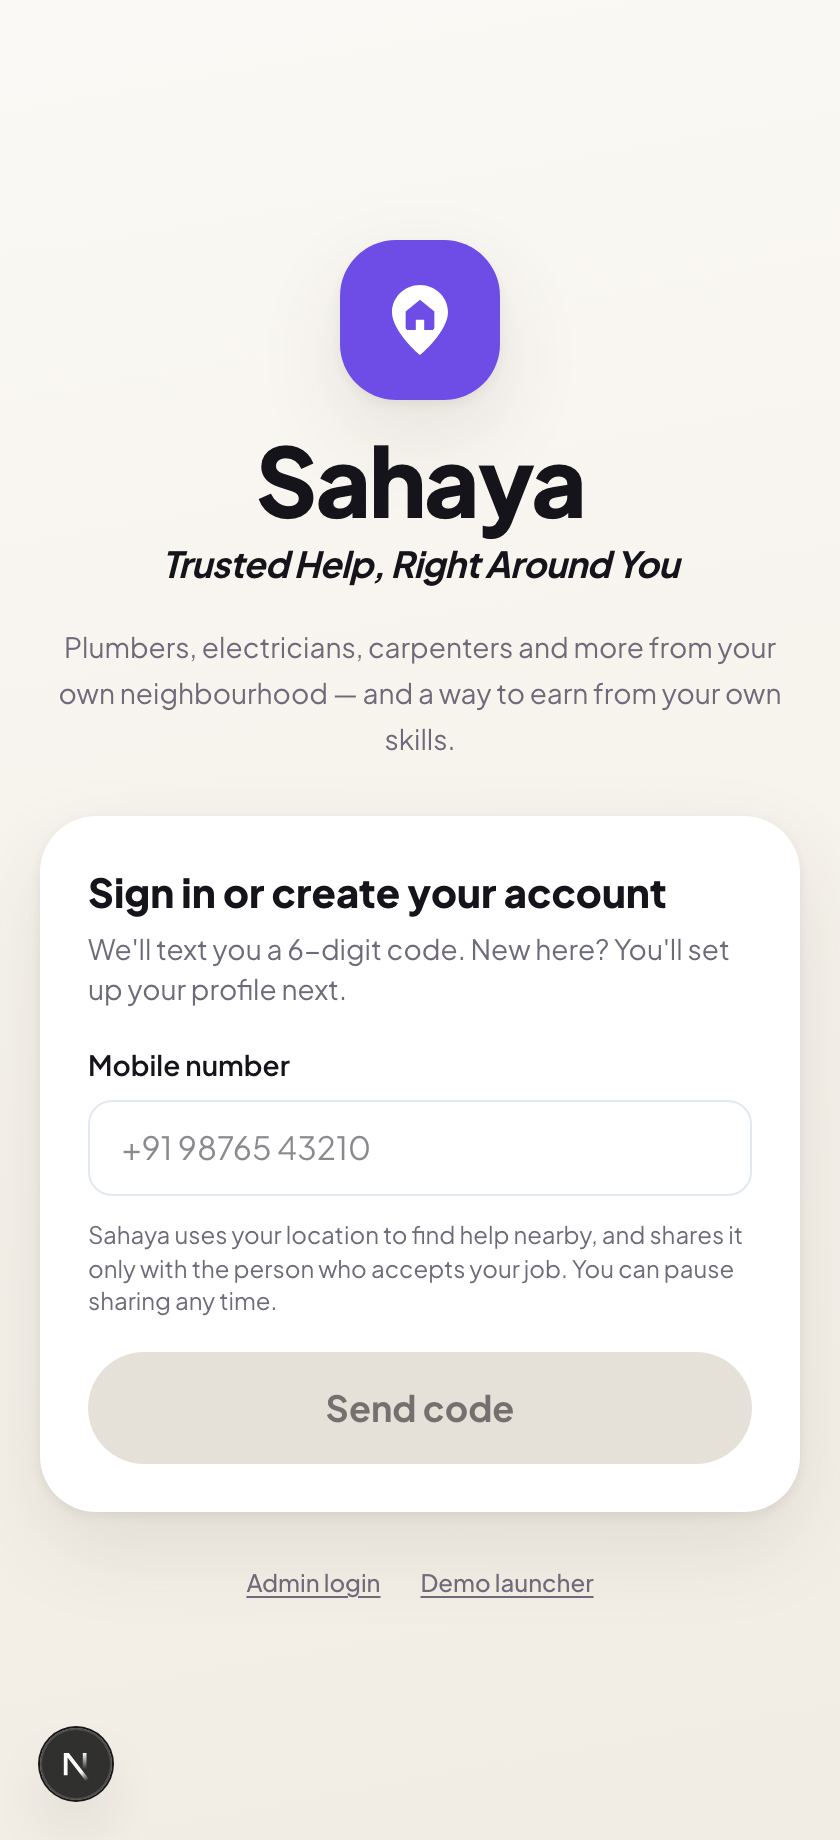
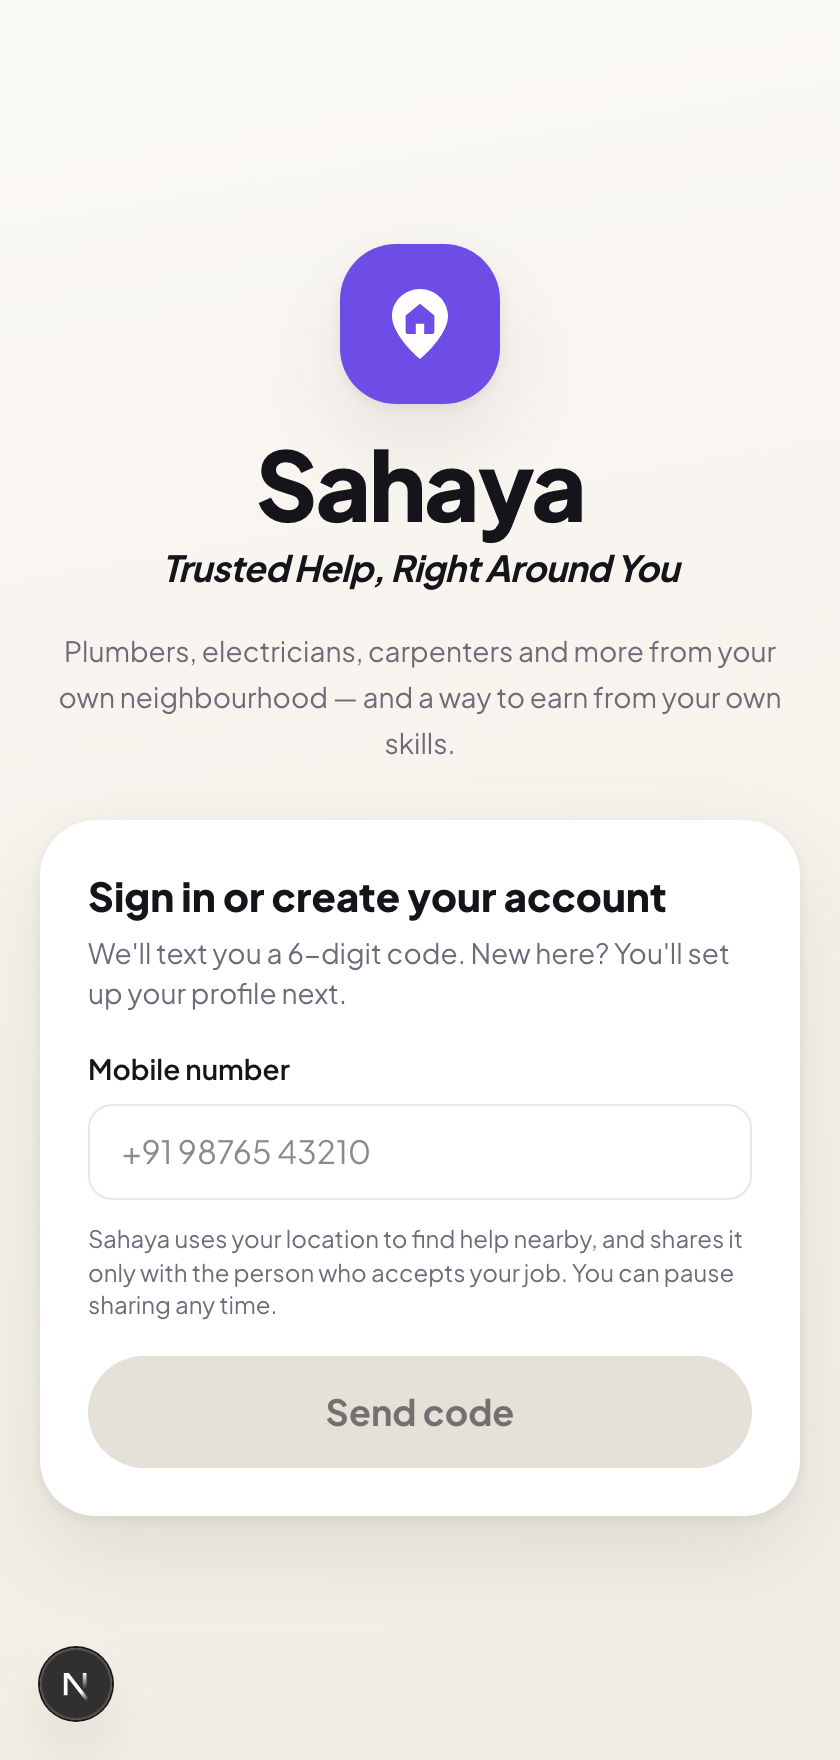
Take the operator doors off the sign-in screen
The admin console and the demo launcher were advertised at the bottom of the screen
a customer meets first. They are operator tools, not a door to offer someone who
came to book a plumber. Both routes still work by URL (/ops, /demo) — they just no
longer invite everyone in.

Changed region(s): [[0.031, 0.4688, 0.9595, 0.875], [0.0619, 0.125, 0.9286, 0.4375], [0.031, 0.9375, 0.1238, 0.9688]]

diff --git a/app/page.tsx b/app/page.tsx
@@ -9,7 +9,6 @@
  * The money lives in components/PaymentPanel.tsx on both sides; this file only routes between screens and, when a
  * provider closes a job, repeats back the figures the server computed for the charge.
  */
-import Link from "next/link";
 import { useCallback, useEffect, useRef, useState } from "react";
 import { Icon } from "@/components/icons";
 import { Badge, Container, Logo, NavBar, PhoneShell, PulsingDot, initials } from "@/components/ui";
@@ -108,10 +107,6 @@ function AuthScreen({ onDone }: { onDone: () => void }) {
           <h2 className="font-display text-xl font-extrabold text-ink">Sign in or create your account</h2>
           <p className="mb-4 mt-1 text-sm text-mist">We&apos;ll text you a 6-digit code. New here? You&apos;ll set up your profile next.</p>
           <OtpForm onDone={() => onDone()} cta="Continue" />
-        </div>
-        <div className="flex gap-5 text-xs font-medium text-mist">
-          <Link href="/ops" className="underline underline-offset-2 hover:text-ink">Admin login</Link>
-          <Link href="/demo" className="underline underline-offset-2 hover:text-ink">Demo launcher</Link>
         </div>
       </Container>
     </div>
